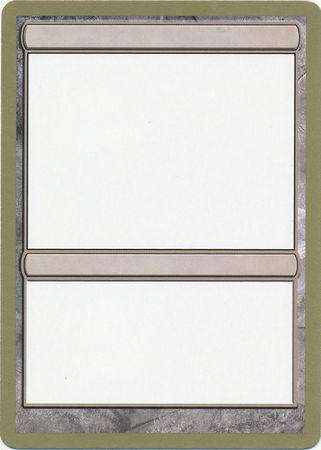
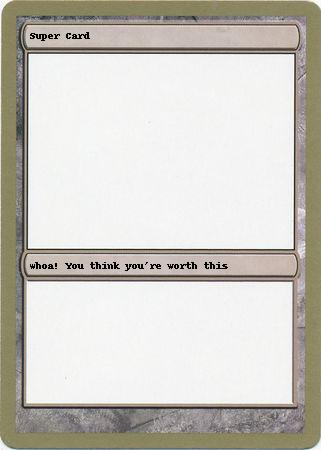
Simple use case

diff --git a/generate.py b/generate.py
@@ -1,4 +1,4 @@
-from PIL import Image
+from PIL import Image, ImageDraw
 
 import argparse
 import os
@@ -60,11 +60,19 @@ def generate_images(cards, pack):
     template_path = full_in_path + "/" + TEMPLATE_IMAGE
     setup(full_out_dir)
 
-    im = Image.open(template_path)
+    # font = ImageFont.truetype("sans-serif.ttf", 16)
     for card in cards:
+        # Open the image and draw some text.
+        img = Image.open(template_path)
+        draw = ImageDraw.Draw(img)
+
+        # TODO(harrison): Probably need to configure this based on location.
+        draw.text((30, 30), card.title, (0, 0, 0))
+        draw.text((30, 260), card.flavor, (0, 0, 0))
+
         card_filename = full_out_dir + "/" + card.short + ".jpg"
         print("Printing: {}".format(card_filename))
-        im.save(card_filename, "JPEG")
+        img.save(card_filename, "JPEG")
 
 if __name__ == '__main__':
 
